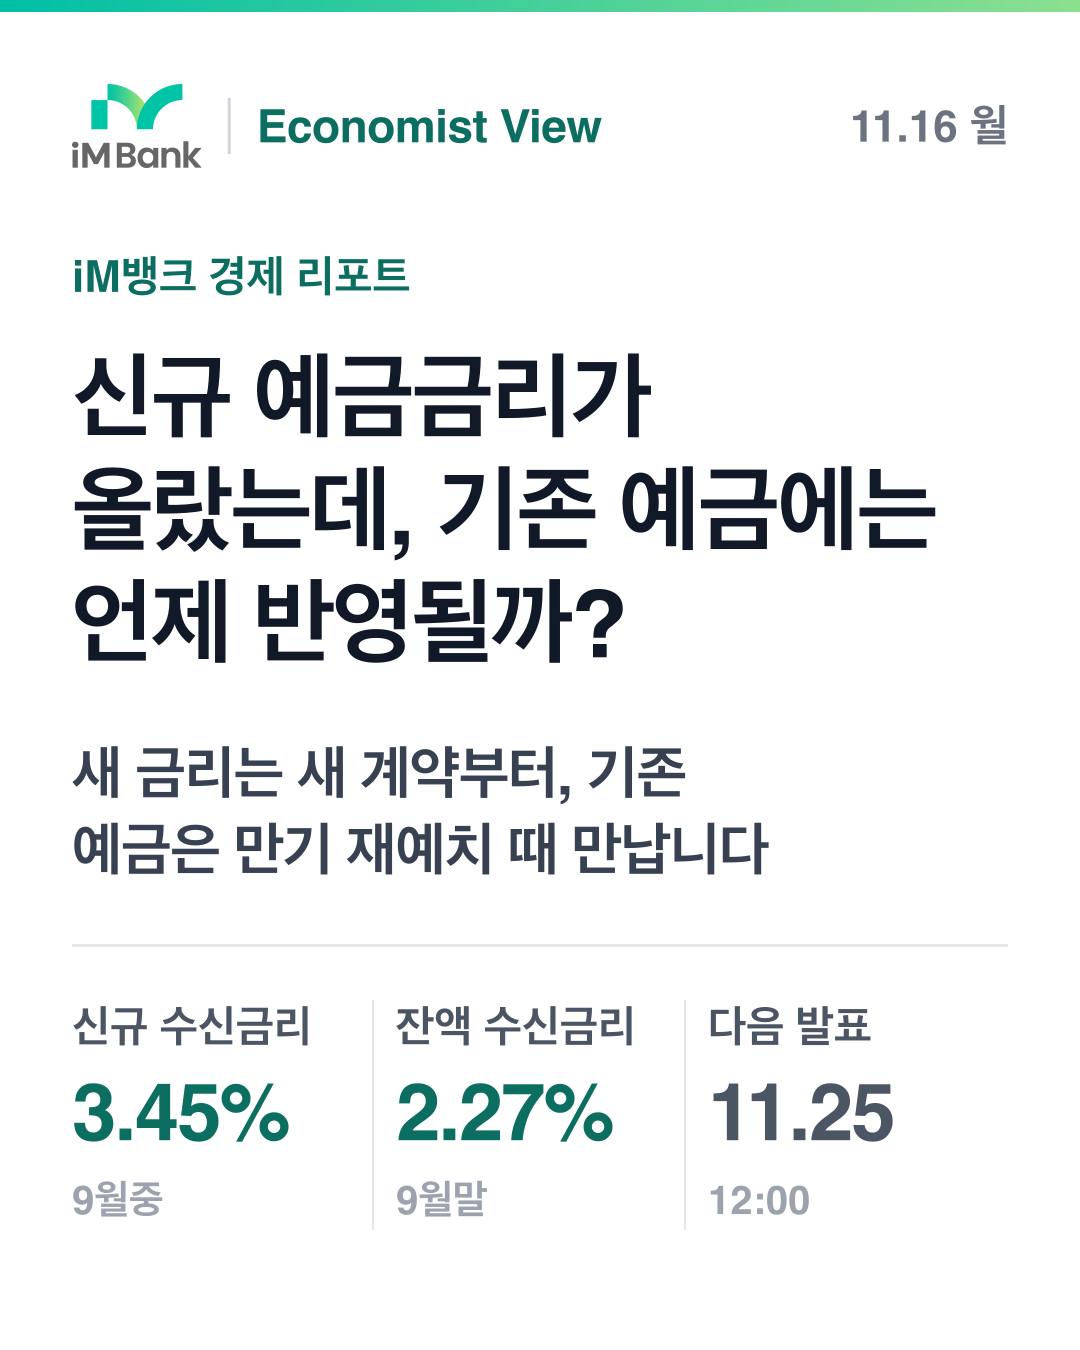
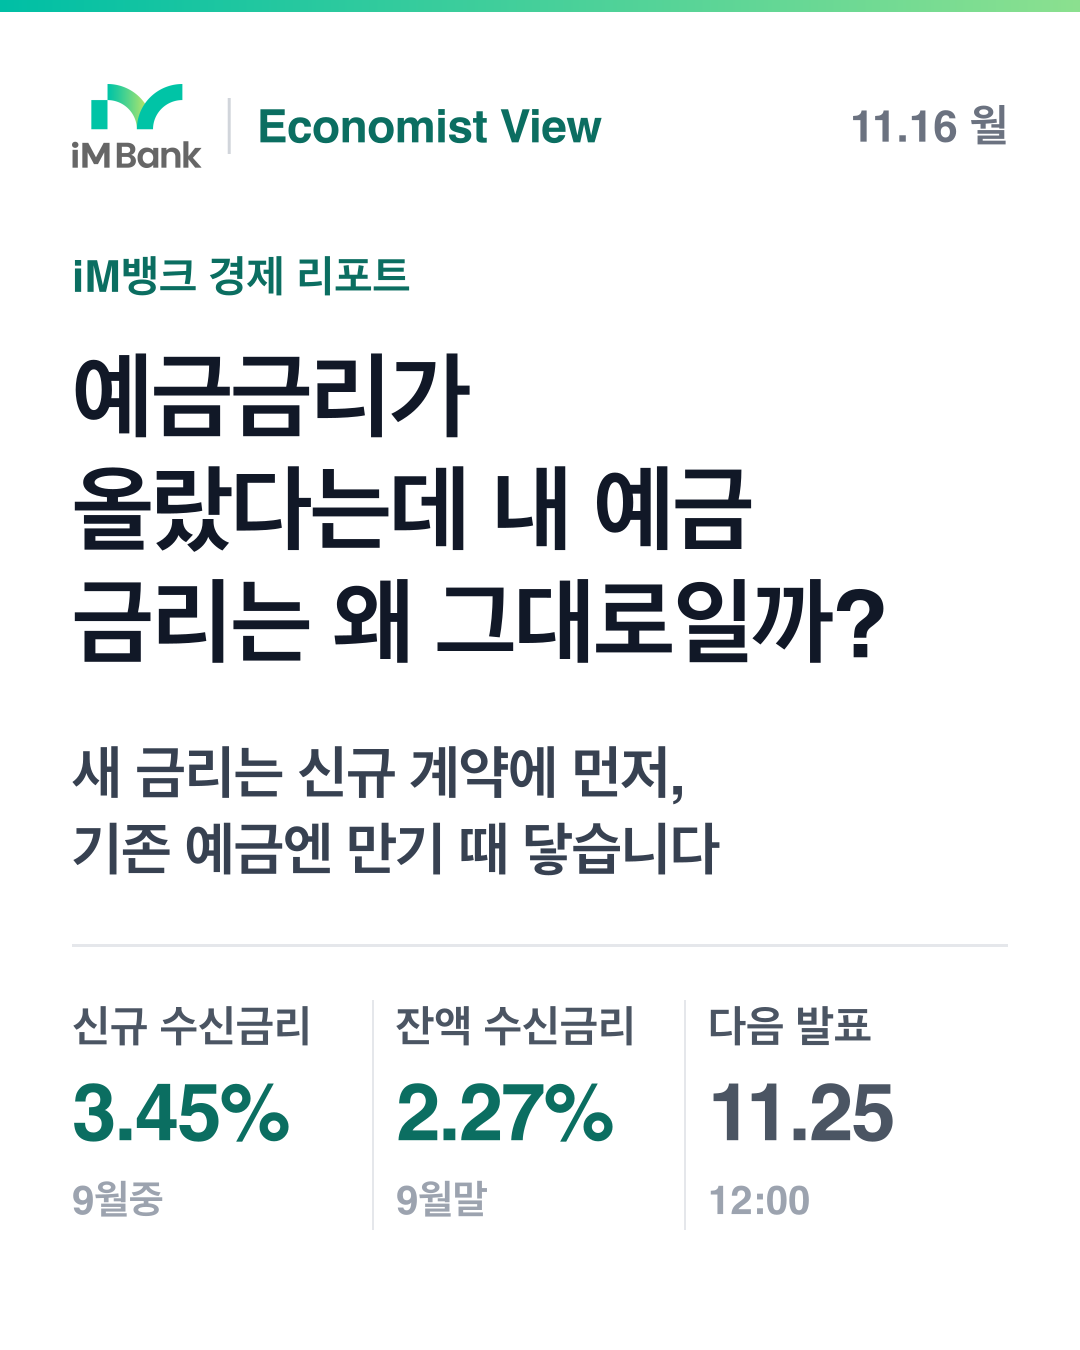
preview: Economist View(2026-11-16) 재생성 — 확인용
Claude-Session: https://claude.ai/code/session_01VBBXT8zS9TT6j7sAH1a9k2

Changed region(s): [[0.0611, 0.2489, 0.8861, 0.4978], [0.0611, 0.5289, 0.7333, 0.6533]]

diff --git a/public/economist-view/2026-11-16.html b/public/economist-view/2026-11-16.html
@@ -3,9 +3,9 @@
 <head>
 <meta charset="UTF-8">
 <meta name="viewport" content="width=device-width, initial-scale=1.0">
-<title>신규 예금금리가 올랐는데, 기존 예금에는 언제 반영될까? - iM뱅크 Economist View</title>
-<meta property="og:title" content="신규 예금금리가 올랐는데, 기존 예금에는 언제 반영될까?">
-<meta property="og:description" content="신규 예금금리 상승은 그달 새로 맺는 계약에 먼저 나타납니다. 이미 가입한 고정금리 예금은 통상 만기가 돌아와 다시 예치할 때 새 금리를 적용받습니다. 실제로 2026년 9월중 신규취급액 기준 저축성수신금리는 전월보다 0.24%p 올랐지만, 2026년 9월말 잔액 기준 총수신금리는 전월말보다 0.07%p 오르는 데 그쳤습">
+<title>예금금리가 올랐다는데 내 예금 금리는 왜 그대로일까? - iM뱅크 Economist View</title>
+<meta property="og:title" content="예금금리가 올랐다는데 내 예금 금리는 왜 그대로일까?">
+<meta property="og:description" content="통계에서 &#39;예금금리가 올랐다&#39;는 말은 주로 새로 맺는 계약의 금리를 가리킵니다. 이미 가입한 고정금리 예금은 약정 기간 동안 적용 금리가 바뀌지 않기 때문에 내 예금 금리는 그대로일 수 있습니다. 2026년 9월중 신규취급액 기준 저축성수신금리는 3.45%로 전월보다 0.24%p 올랐지만, 2026년 9월말">
 <meta property="og:site_name" content="iM뱅크">
 <meta property="og:type" content="article">
 <meta property="og:image" content="https://dailyreport-eta.vercel.app/economist-view/2026-11-16-preview.png">
@@ -550,35 +550,35 @@
         </div>
     </header>
     <section class="title-block" data-section="title">
-        <h1 class="cover-headline">신규 예금금리가 올랐는데, 기존 예금에는 언제 반영될까?</h1>
+        <h1 class="cover-headline">예금금리가 올랐다는데 내 예금 금리는 왜 그대로일까?</h1>
     </section>
-    <section class="ev-lede" data-section="lede"><p>신규 예금금리 상승은 그달 새로 맺는 계약에 먼저 나타납니다. 이미 가입한 고정금리 예금은 통상 만기가 돌아와 다시 예치할 때 새 금리를 적용받습니다. 실제로 2026년 9월중 신규취급액 기준 저축성수신금리는 전월보다 <strong>0.24%p</strong> 올랐지만, 2026년 9월말 잔액 기준 총수신금리는 전월말보다 0.07%p 오르는 데 그쳤습니다.<a class="ev-ref" href="#evidence">[1,2]</a></p></section>
+    <section class="ev-lede" data-section="lede"><p>통계에서 '예금금리가 올랐다'는 말은 주로 새로 맺는 계약의 금리를 가리킵니다. 이미 가입한 고정금리 예금은 약정 기간 동안 적용 금리가 바뀌지 않기 때문에 내 예금 금리는 그대로일 수 있습니다. <strong>2026년 9월중 신규취급액 기준 저축성수신금리는 3.45%로 전월보다 0.24%p 올랐지만</strong>, 2026년 9월말 잔액 기준 총수신금리는 2.27%로 0.07%p 오르는 데 그쳤습니다.<a class="ev-ref" href="#evidence">[1,2,3,4]</a></p></section>
     <section class="section" data-section="chart">
         <svg class="ev-chart" viewBox="0 0 680 230" role="img" aria-label="신규취급액 기준 저축성수신금리, 잔액 기준 총수신금리(같은 눈금, %)"><text x="34" y="204.0" text-anchor="end" font-size="11" fill="#9CA3AF">2.0</text><text x="34" y="147.3" text-anchor="end" font-size="11" fill="#9CA3AF">2.5</text><text x="34" y="90.7" text-anchor="end" font-size="11" fill="#9CA3AF">3.0</text><text x="34" y="34.0" text-anchor="end" font-size="11" fill="#9CA3AF">3.5</text><line x1="40.0" x2="344.0" y1="200.0" y2="200.0" stroke="#EEF2F7"/><line x1="40.0" x2="344.0" y1="143.3" y2="143.3" stroke="#EEF2F7"/><line x1="40.0" x2="344.0" y1="86.7" y2="86.7" stroke="#EEF2F7"/><line x1="40.0" x2="344.0" y1="30.0" y2="30.0" stroke="#EEF2F7"/><text x="40.0" y="16" font-size="12" font-weight="700" fill="#111827">신규취급액 기준 저축성수신금리</text><path d="M40.0,141.1 L65.3,135.4 L90.7,108.2 L116.0,98.0 L141.3,110.5 L166.7,105.9 L192.0,107.1 L217.3,95.7 L242.7,94.6 L268.0,77.6 L293.3,62.9 L318.7,62.9 L344.0,35.7" fill="none" stroke="#0B6E61" stroke-width="2.4"/><circle cx="344.0" cy="35.7" r="3.5" fill="#0B6E61"/><text x="40.0" y="220" text-anchor="start" font-size="11" fill="#6B7280">25.09</text><text x="344.0" y="220" text-anchor="end" font-size="11" fill="#6B7280">26.09</text><line x1="364.0" x2="668.0" y1="200.0" y2="200.0" stroke="#EEF2F7"/><line x1="364.0" x2="668.0" y1="143.3" y2="143.3" stroke="#EEF2F7"/><line x1="364.0" x2="668.0" y1="86.7" y2="86.7" stroke="#EEF2F7"/><line x1="364.0" x2="668.0" y1="30.0" y2="30.0" stroke="#EEF2F7"/><text x="364.0" y="16" font-size="12" font-weight="700" fill="#111827">잔액 기준 총수신금리</text><path d="M364.0,195.5 L389.3,196.6 L414.7,197.7 L440.0,200.0 L465.3,198.9 L490.7,198.9 L516.0,200.0 L541.3,197.7 L566.7,196.6 L592.0,192.1 L617.3,183.0 L642.7,177.3 L668.0,169.4" fill="none" stroke="#1D4ED8" stroke-width="2.4"/><circle cx="668.0" cy="169.4" r="3.5" fill="#1D4ED8"/><text x="364.0" y="220" text-anchor="start" font-size="11" fill="#6B7280">25.09</text><text x="668.0" y="220" text-anchor="end" font-size="11" fill="#6B7280">26.09</text></svg>
-        <p class="ev-caption">최근 12개월 동안의 신규취급액 기준 저축성수신금리(마지막 관측 2026년 9월중)와 잔액 기준 총수신금리(마지막 관측 2026년 9월말)를 같은 눈금으로 나타냈습니다.<a class="ev-ref" href="#evidence">[3,4]</a></p>
+        <p class="ev-caption">최근 12개월 동안의 신규취급액 기준 저축성수신금리(마지막 관측 2026년 9월중)와 잔액 기준 총수신금리(마지막 관측 2026년 9월말)를 같은 눈금에 나란히 그렸습니다.<a class="ev-ref" href="#evidence">[1,3]</a></p>
     </section>
     <section class="section" data-section="body">
-        <p class="ev-p">한국은행이 10월 29일 12:00 공표한 통계에서 2026년 9월중 신규취급액 기준 저축성수신금리는 3.45%로, 2026년 8월중보다 0.24%p 상승했습니다.<a class="ev-ref" href="#evidence">[1,3]</a> 같은 공표에서 2026년 9월말 잔액 기준 총수신금리는 2.27%로, 2026년 8월말보다 0.07%p 상승했습니다.<a class="ev-ref" href="#evidence">[2,4]</a> 비교 시점으로 보면 2025년 10월중 신규취급액 기준 저축성수신금리는 2.57%, 2025년 10월말 잔액 기준 총수신금리는 2.03%였습니다.<a class="ev-ref" href="#evidence">[5,6]</a></p>
-        <p class="ev-p">두 통계는 모두 금융상품의 금리를 금액비중으로 가중해 평균한 값이지만, 신규취급액 기준은 그달 새로 맺은 계약만, 잔액 기준은 이미 맺은 계약까지 모두 담습니다. 고정금리 예금은 약정 기간 중 시장금리가 변해도 적용 금리가 바뀌지 않기 때문에, 잔액 기준 금리는 만기가 돌아온 계약이 새 금리로 바뀌는 만큼만 천천히 따라오는 경향이 있습니다. 그래서 두 지표 사이의 간격은 새 금리가 기존 예금 전체에 스며들기까지 걸리는 시차로 읽을 수 있습니다.</p>
-        <p class="ev-p">만기가 가까운 예금자에게는 재예치 시점의 신규 금리가 앞으로 적용받을 금리 수준을 가늠하는 참고값이 될 수 있습니다. 다음 공표에서도 신규취급액 기준 저축성수신금리가 계속 오른다면 기존 예금과 새 계약 사이의 간격은 당분간 이어질 수 있고, 오름세가 멈춘다면 이 간격에 대한 판단도 달라질 수 있습니다. 다만 중도해지에는 일반적으로 약정과 다른 조건이 적용될 수 있어, 통계상 금리 수준만으로 기존 계약 유지와 재예치를 비교하기는 어렵습니다.</p>
+        <p class="ev-p">한국은행 기준금리는 2026년 8월 27일 2.75%에서 3.00%로 0.25%p 인상됐습니다.<a class="ev-ref" href="#evidence">[5]</a> 신규취급액 기준 저축성수신금리는 2025년 9월중 2.52%에서 2026년 9월중 3.45%로 높아졌습니다.<a class="ev-ref" href="#evidence">[1,6]</a> 같은 기간 잔액 기준 총수신금리는 2025년 9월말 2.04%에서 2026년 9월말 2.27%로 움직였습니다.<a class="ev-ref" href="#evidence">[3,7]</a></p>
+        <p class="ev-p">두 지표 모두 금융상품의 금리를 금액비중으로 가중평균한 값이지만, 신규취급액 기준은 그달 새로 맺은 계약을, 잔액 기준은 이미 쌓여 있는 전체 예금을 대상으로 합니다. 고정금리 예금은 약정 기간 중 시장금리가 올라도 적용 금리가 변하지 않으므로, 잔액 기준 금리는 통상 만기가 돌아와 새 금리로 다시 계약되는 몫만큼 천천히 따라오는 경향이 있습니다. 실제로 잔액 기준 총수신금리는 2026년 6월말 2.07%, 2026년 7월말 2.15%, 2026년 8월말 2.20%, 2026년 9월말 2.27%로 매달 조금씩 높아졌습니다.<a class="ev-ref" href="#evidence">[3,8,9,10]</a></p>
+        <p class="ev-p">따라서 지표상 금리 변화가 내 예금에 닿는 시점은 발표일보다 내 계약의 만기일이나 금리 재설정일에 달려 있다고 볼 수 있으며, 통계는 평균값이어서 개인이 받는 금리는 상품과 기간에 따라 다를 수 있습니다. 신규취급액 기준 저축성수신금리는 2026년 7월중과 2026년 8월중 모두 3.21%였다가 2026년 9월중 3.45%로 올랐습니다.<a class="ev-ref" href="#evidence">[1,11,12]</a> 다음 공표에서도 신규취급액 기준 금리 상승이 이어진다면 만기가 가까운 예금자에게는 재예치 시점의 금리 수준이 더 중요한 고려 요소가 될 수 있지만, 신규 금리가 멈추거나 내려간다면 이 판단은 달라질 수 있습니다.</p>
     </section>
     <section class="ev-check" data-section="reader-check">
         <div class="ev-check-title">내 계약에서 확인할 것</div>
-        <p class="ev-p" style="margin:0">가지고 있는 예금의 만기일과 고정금리 여부, 그리고 중도해지 때 적용되는 조건을 먼저 확인해 보시기 바랍니다.</p>
+        <p class="ev-p" style="margin:0">내 예금의 만기일, 약정 기간 동안 금리가 고정되는지 아니면 중간에 재설정되는지, 만기 후 자동 재예치 여부를 계약 내용에서 먼저 확인해 보시기 바랍니다.</p>
     </section>
     <section data-section="next">
-        <p class="ev-next">11월 25일 12:00 공표되는 2026년 10월 금융기관 가중평균금리에서 신규취급액 기준 저축성수신금리가 계속 오르는지, 잔액 기준 총수신금리가 얼마나 따라붙는지를 다시 살펴보겠습니다.</p>
+        <p class="ev-next">2026년 10월 금융기관 가중평균금리는 11월 25일 12:00에 공표될 예정이며, 신규취급액 기준 금리 상승이 이어지는지와 잔액 기준 금리가 얼마나 따라붙는지를 다시 살펴보겠습니다.</p>
         <p class="wk-note">다음 발표: 2026년 10월 금융기관 가중평균금리 · 11월 25일 12:00 (한국은행 통계 공표 일정)</p>
     </section>
     
     <details class="more" id="evidence" data-section="evidence">
         <summary class="more-summary">근거표</summary>
         <div class="more-body">
-        <table class="ev-table"><thead><tr><th>#</th><th>항목</th><th style="text-align:right">값</th><th>출처</th></tr></thead><tbody><tr><td>[1]</td><td>예금은행 저축성수신금리(신규취급액 기준) · 2026년 9월중 <span class="wk-sub">(당월 − 전월(공표 소수 둘째 자리 기준))</span></td><td class="num">+0.24%p</td><td><a href="https://ecos.bok.or.kr/#/SearchStat" target="_blank" rel="noopener noreferrer">한국은행(파생)</a><div class="wk-sub">공표 10월 29일 12:00</div></td></tr><tr><td>[2]</td><td>예금은행 총수신금리(잔액 기준) · 2026년 9월말 <span class="wk-sub">(당월 − 전월(공표 소수 둘째 자리 기준))</span></td><td class="num">+0.07%p</td><td><a href="https://ecos.bok.or.kr/#/SearchStat" target="_blank" rel="noopener noreferrer">한국은행(파생)</a><div class="wk-sub">공표 10월 29일 12:00</div></td></tr><tr><td>[3]</td><td>예금은행 저축성수신금리(신규취급액 기준) · 2026년 9월중</td><td class="num">3.45%</td><td><a href="https://ecos.bok.or.kr/#/SearchStat" target="_blank" rel="noopener noreferrer">한국은행</a><div class="wk-sub">공표 10월 29일 12:00</div></td></tr><tr><td>[4]</td><td>예금은행 총수신금리(잔액 기준) · 2026년 9월말</td><td class="num">2.27%</td><td><a href="https://ecos.bok.or.kr/#/SearchStat" target="_blank" rel="noopener noreferrer">한국은행</a><div class="wk-sub">공표 10월 29일 12:00</div></td></tr><tr><td>[5]</td><td>예금은행 저축성수신금리(신규취급액 기준) · 2025년 10월중</td><td class="num">2.57%</td><td><a href="https://ecos.bok.or.kr/#/SearchStat" target="_blank" rel="noopener noreferrer">한국은행</a></td></tr><tr><td>[6]</td><td>예금은행 총수신금리(잔액 기준) · 2025년 10월말</td><td class="num">2.03%</td><td><a href="https://ecos.bok.or.kr/#/SearchStat" target="_blank" rel="noopener noreferrer">한국은행</a></td></tr></tbody></table>
+        <table class="ev-table"><thead><tr><th>#</th><th>항목</th><th style="text-align:right">값</th><th>출처</th></tr></thead><tbody><tr><td>[1]</td><td>예금은행 저축성수신금리(신규취급액 기준) · 2026년 9월중</td><td class="num">3.45%</td><td><a href="https://ecos.bok.or.kr/#/SearchStat" target="_blank" rel="noopener noreferrer">한국은행</a><div class="wk-sub">공표 10월 29일 12:00</div></td></tr><tr><td>[2]</td><td>예금은행 저축성수신금리(신규취급액 기준) · 2026년 9월중 <span class="wk-sub">(당월 − 전월(공표 소수 둘째 자리 기준))</span></td><td class="num">+0.24%p</td><td><a href="https://ecos.bok.or.kr/#/SearchStat" target="_blank" rel="noopener noreferrer">한국은행(파생)</a><div class="wk-sub">공표 10월 29일 12:00</div></td></tr><tr><td>[3]</td><td>예금은행 총수신금리(잔액 기준) · 2026년 9월말</td><td class="num">2.27%</td><td><a href="https://ecos.bok.or.kr/#/SearchStat" target="_blank" rel="noopener noreferrer">한국은행</a><div class="wk-sub">공표 10월 29일 12:00</div></td></tr><tr><td>[4]</td><td>예금은행 총수신금리(잔액 기준) · 2026년 9월말 <span class="wk-sub">(당월 − 전월(공표 소수 둘째 자리 기준))</span></td><td class="num">+0.07%p</td><td><a href="https://ecos.bok.or.kr/#/SearchStat" target="_blank" rel="noopener noreferrer">한국은행(파생)</a><div class="wk-sub">공표 10월 29일 12:00</div></td></tr><tr><td>[5]</td><td>한국은행 기준금리 · 2026년 11월 13일 현재</td><td class="num">3.00%</td><td><a href="https://ecos.bok.or.kr/#/SearchStat" target="_blank" rel="noopener noreferrer">한국은행</a><div class="wk-sub">공표 일별</div></td></tr><tr><td>[6]</td><td>예금은행 저축성수신금리(신규취급액 기준) · 2025년 9월중</td><td class="num">2.52%</td><td><a href="https://ecos.bok.or.kr/#/SearchStat" target="_blank" rel="noopener noreferrer">한국은행</a></td></tr><tr><td>[7]</td><td>예금은행 총수신금리(잔액 기준) · 2025년 9월말</td><td class="num">2.04%</td><td><a href="https://ecos.bok.or.kr/#/SearchStat" target="_blank" rel="noopener noreferrer">한국은행</a></td></tr><tr><td>[8]</td><td>예금은행 총수신금리(잔액 기준) · 2026년 6월말</td><td class="num">2.07%</td><td><a href="https://ecos.bok.or.kr/#/SearchStat" target="_blank" rel="noopener noreferrer">한국은행</a></td></tr><tr><td>[9]</td><td>예금은행 총수신금리(잔액 기준) · 2026년 7월말</td><td class="num">2.15%</td><td><a href="https://ecos.bok.or.kr/#/SearchStat" target="_blank" rel="noopener noreferrer">한국은행</a></td></tr><tr><td>[10]</td><td>예금은행 총수신금리(잔액 기준) · 2026년 8월말</td><td class="num">2.20%</td><td><a href="https://ecos.bok.or.kr/#/SearchStat" target="_blank" rel="noopener noreferrer">한국은행</a></td></tr><tr><td>[11]</td><td>예금은행 저축성수신금리(신규취급액 기준) · 2026년 7월중</td><td class="num">3.21%</td><td><a href="https://ecos.bok.or.kr/#/SearchStat" target="_blank" rel="noopener noreferrer">한국은행</a></td></tr><tr><td>[12]</td><td>예금은행 저축성수신금리(신규취급액 기준) · 2026년 8월중</td><td class="num">3.21%</td><td><a href="https://ecos.bok.or.kr/#/SearchStat" target="_blank" rel="noopener noreferrer">한국은행</a></td></tr></tbody></table>
         </div>
     </details>
     <footer class="report-footer" data-section="footer">
-        <div class="copyright">© iM뱅크 | Economist View | 자료: 한국은행 ECOS·보도자료·통계 공표 일정 | 자료 기준 2026-11-13 23:15</div>
+        <div class="copyright">© iM뱅크 | Economist View | 자료: 한국은행 ECOS·보도자료·통계 공표 일정 | 자료 기준 2026-11-13 23:18</div>
         <div class="legal-notice">
             <div class="legal-title">유의사항</div>
             <ul class="legal-list">
